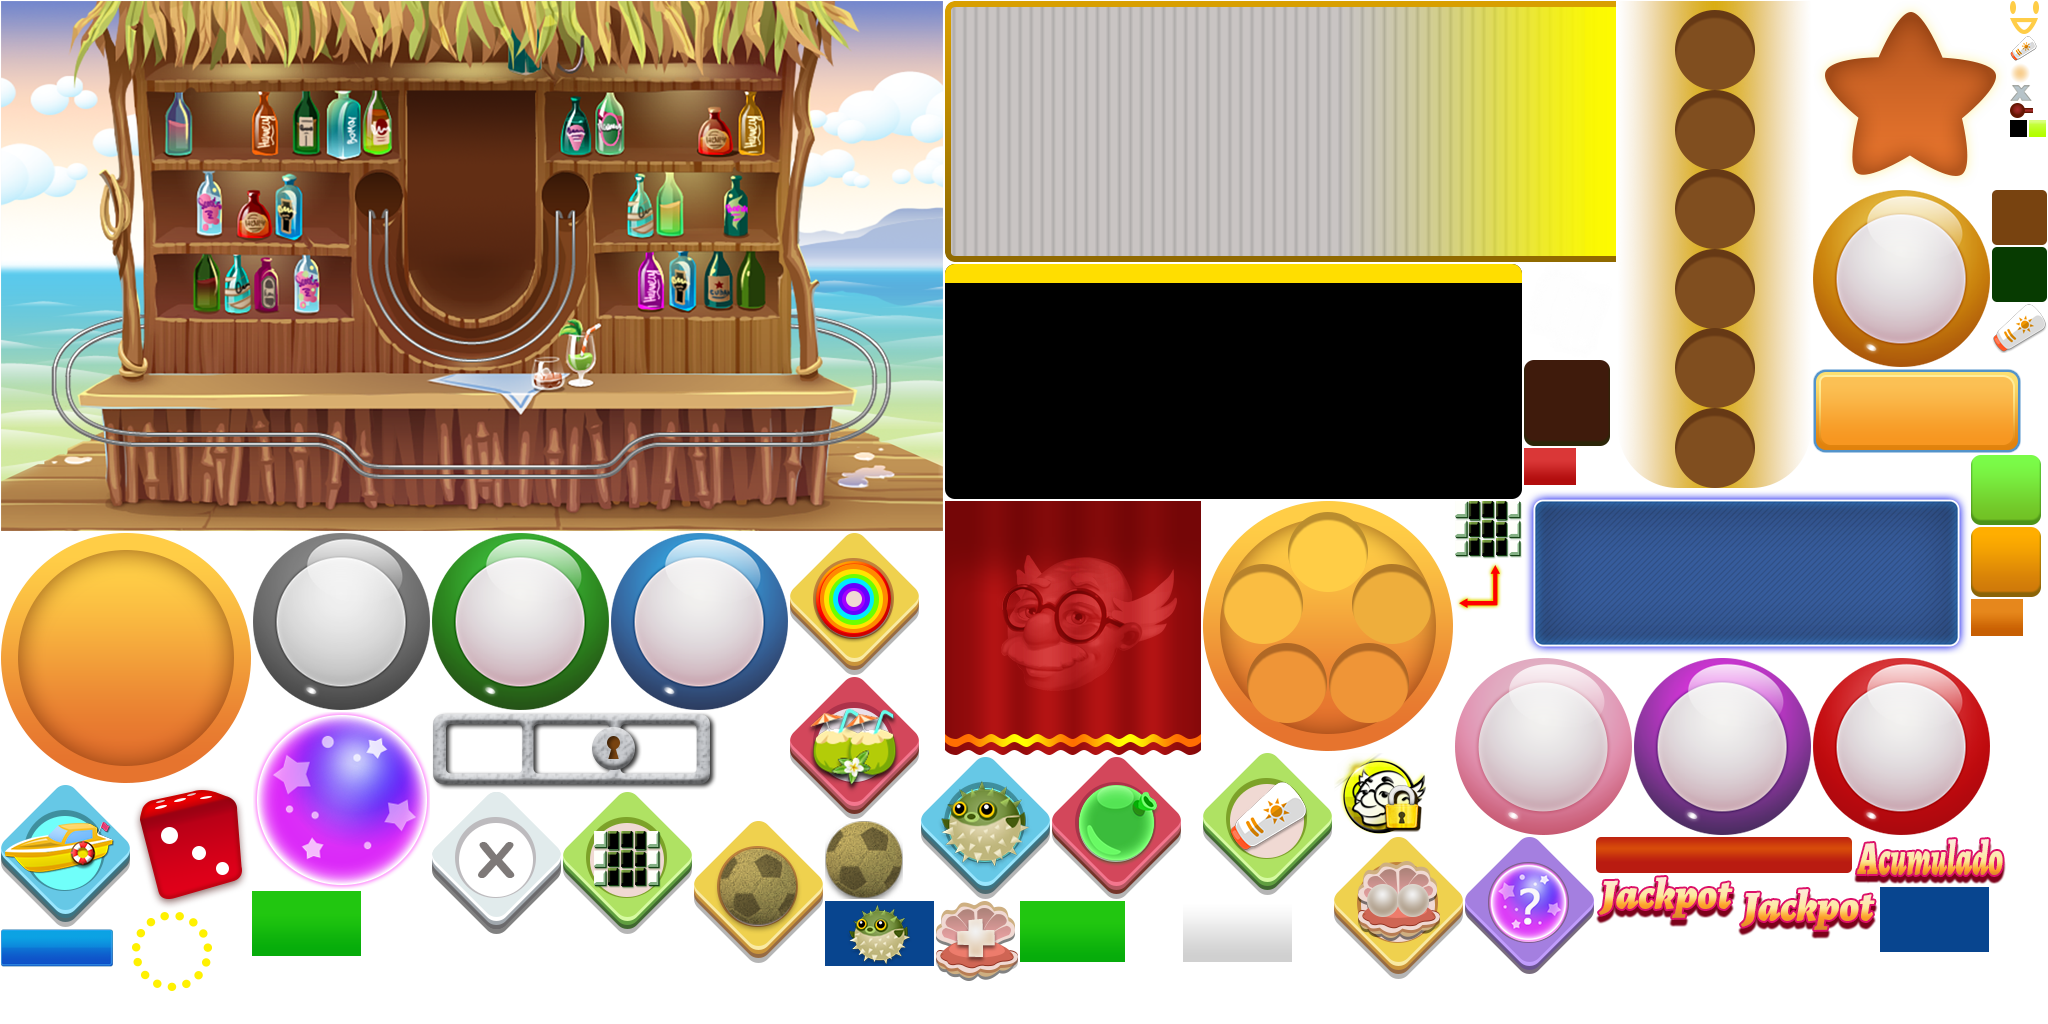
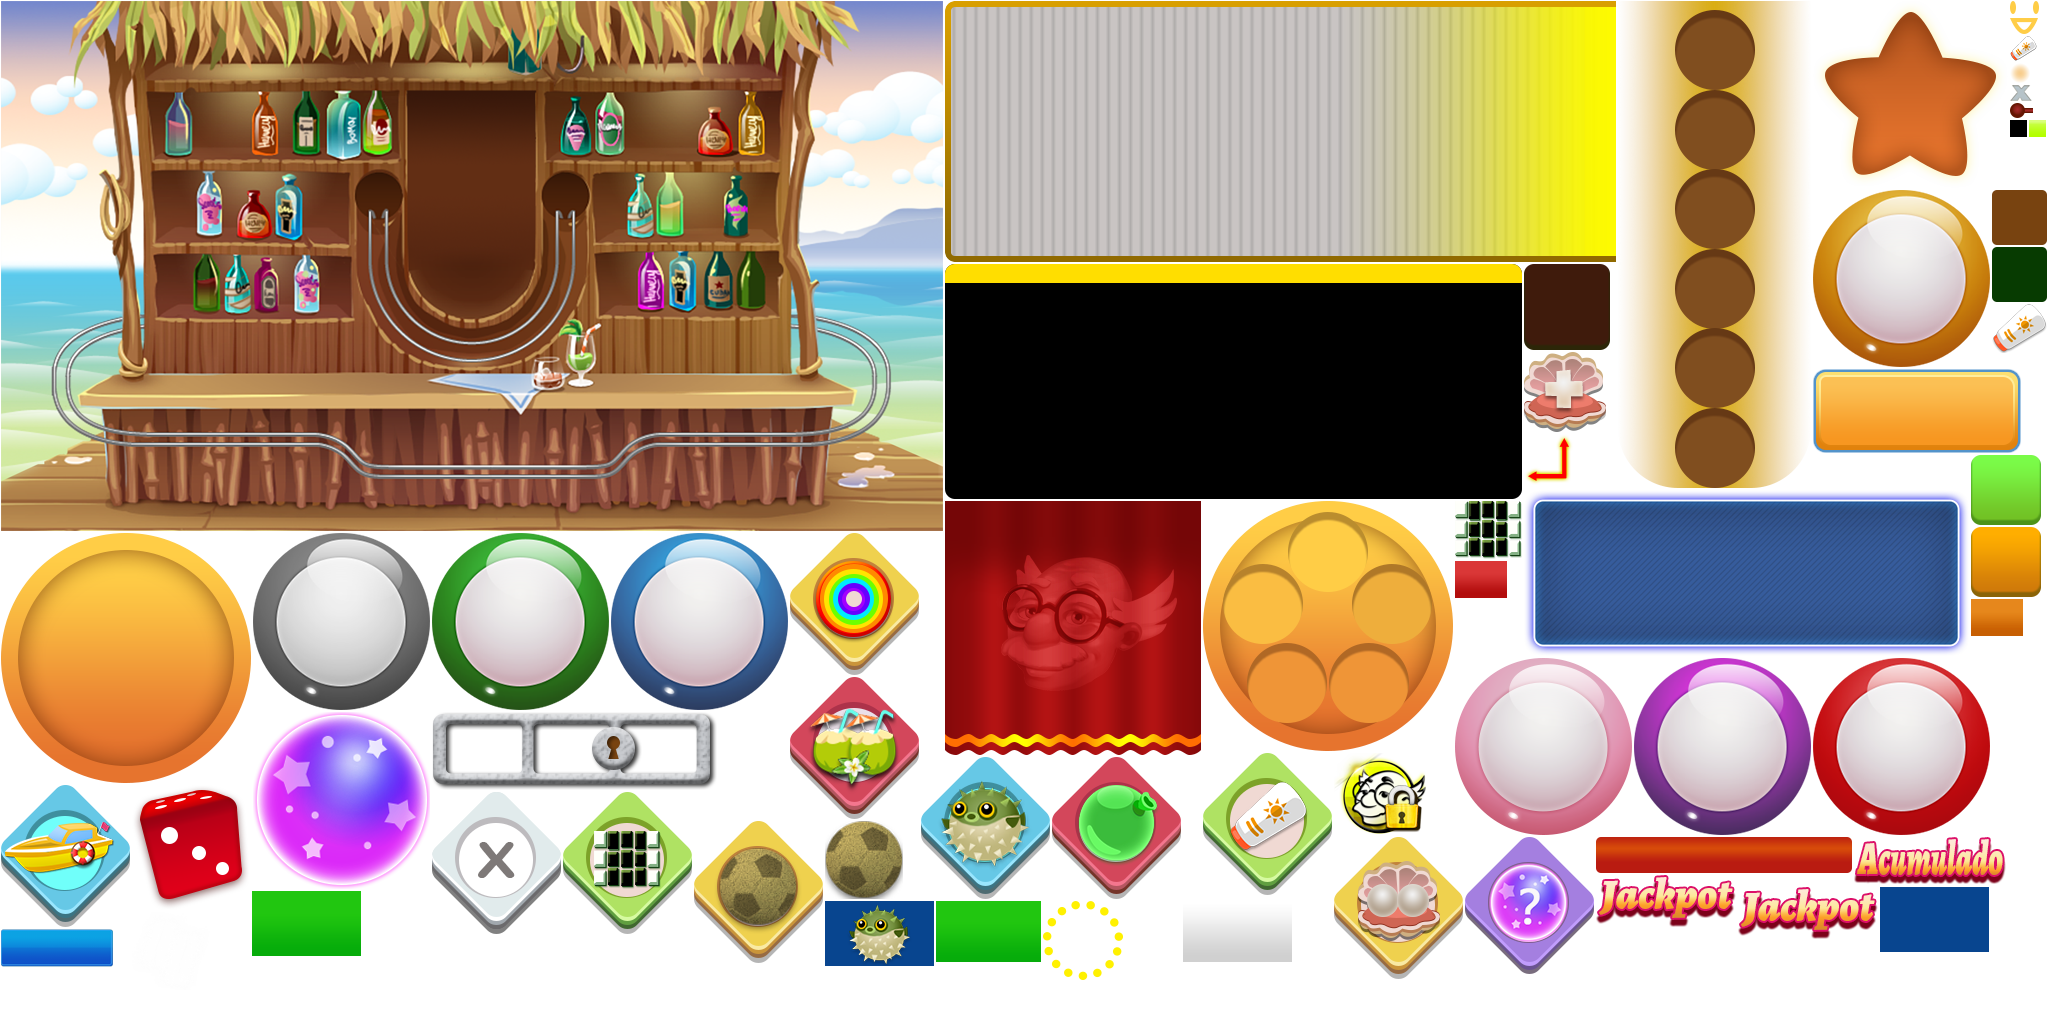
fix color eb issue

diff --git a/newMoblie/src/bingoGames/v2games/Copacabana/Copacabana.ts b/newMoblie/src/bingoGames/v2games/Copacabana/Copacabana.ts
@@ -145,12 +145,13 @@ class Copacabana extends V2Game{
     private squareUIOnCard: CopaSquareBar;
 
     private needShowFreeEb: boolean;
-    private ebColorList: Array<number>;
     private freeEbList: Array<number>;
-    private ebColorsSp: egret.DisplayObjectContainer;
-    private superEbColorsSp: egret.DisplayObjectContainer;
     private freeEbUI1: egret.Bitmap;
     private freeEbUI2: egret.Bitmap;
+
+    private ebColorList: Array<number>;
+    private ebColorsSp: egret.DisplayObjectContainer;
+    private superEbColorsSp: egret.DisplayObjectContainer;
 
     private needWaitForChoose: boolean;
     private cutBallsArray: Array<number>;
@@ -591,11 +592,10 @@ class Copacabana extends V2Game{
     private drawEbColors(): void{
         if( this.ebColorList ){
             this.ebColorsSp = new egret.DisplayObjectContainer;
-            this.ebColorsSp.x = this.extraUIObject.x;
-            this.ebColorsSp.y = this.extraUIObject.y;
             this.addChildAt( this.ebColorsSp, this.getChildIndex( this.extraUIObject ) + 1 );
             for( let i: number = 0; i < this.ebColorList.length; i++ ){
-                Com.addBitmapAt( this.ebColorsSp, this.assetStr( "ball_bg_01" ), 15, 36 * i ).filters = [ MatrixTool.colorMatrixPure( CopacabanaGird.rangeColors[this.ebColorList[i]] ) ];
+                let ballPt: egret.Point = BallManager.getBallLastPosition( this.currentBallIndex + i );
+                Com.addBitmapAt( this.ebColorsSp, this.assetStr( "ball_bg_01" ), ballPt.x, ballPt.y ).filters = [ MatrixTool.colorMatrixPure( CopacabanaGird.rangeColors[this.ebColorList[i]] ) ];
             }
             this.ebColorList = null;
         }
